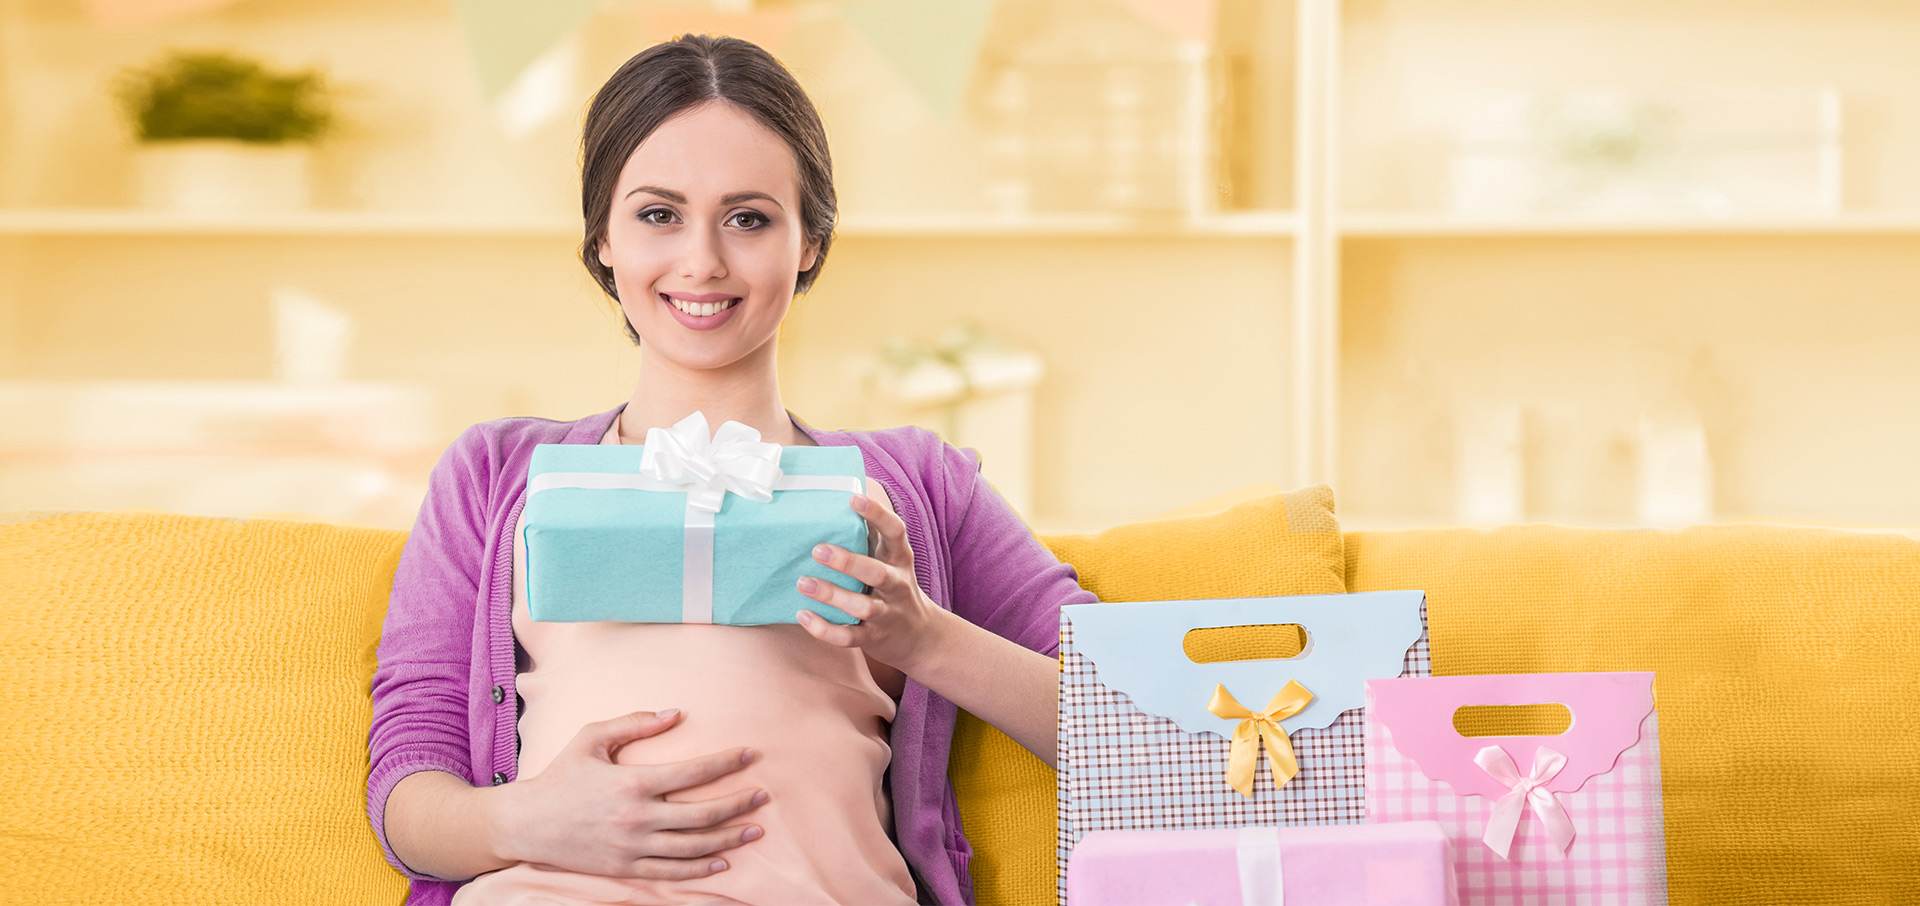
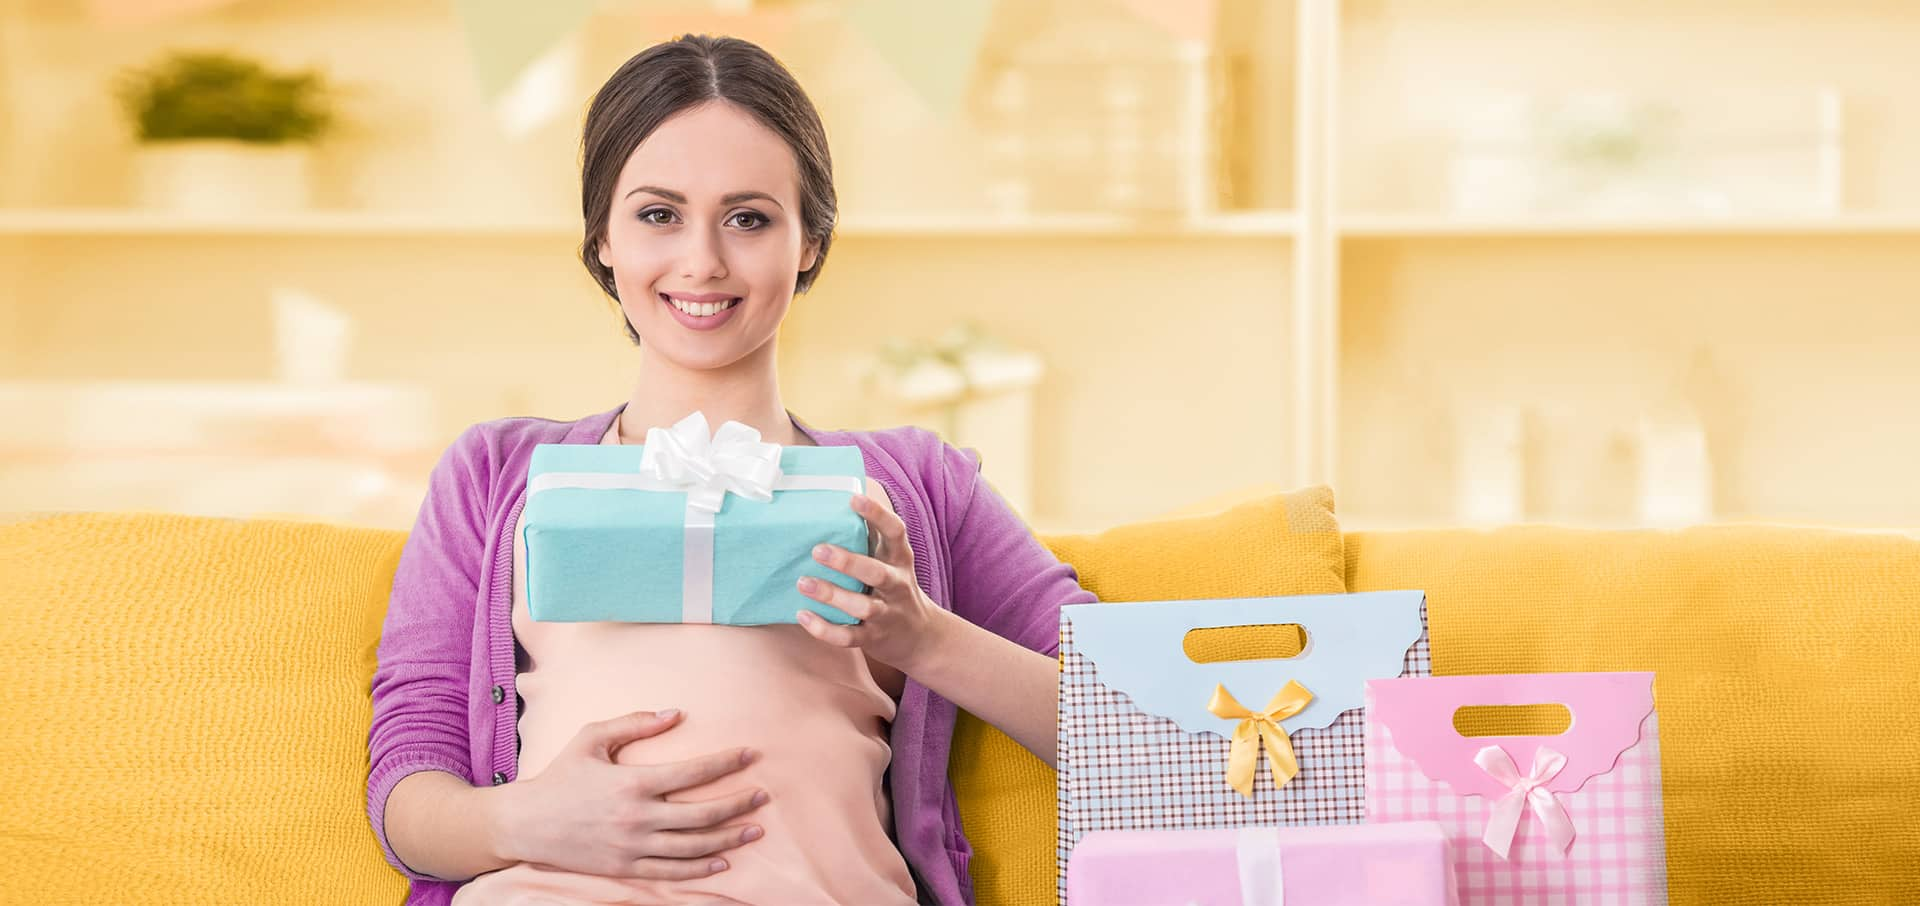
Delete images and update optimized images

diff --git a/assets/src/styles/style.css b/assets/src/styles/style.css
@@ -23,7 +23,7 @@ main {
     justify-content: center;
     padding: 0px 30px;
     height: 100vh;
-    background-color: rgba(0, 0, 0, 0.4);
+    background-color: rgba(0, 0, 0, 0.5);
 }
 
 .title {
@@ -104,7 +104,6 @@ main {
 
 @media (min-width: 680px) {
     main {
-        background-image: url('../../images/gravida_elo7-1-1.jpg');
-       
+        background-image: url('../../images/gravida_elo7-1-1.jpg');       
     }
 }
